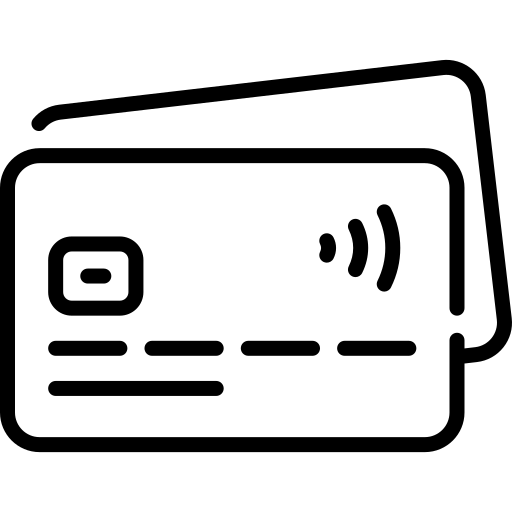
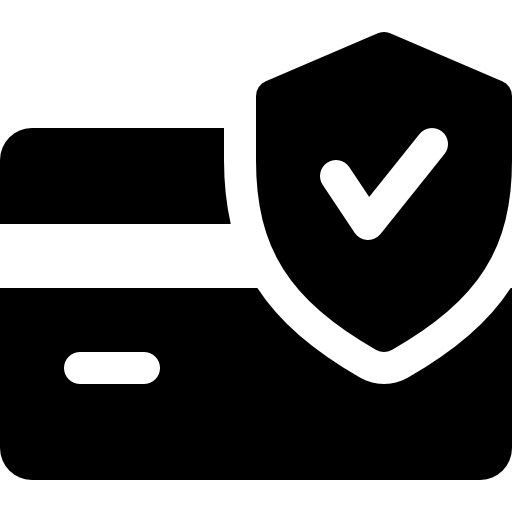
feat: update landing page section styling and add new assets for feature cards

diff --git a/src/app/page.tsx b/src/app/page.tsx
@@ -1174,10 +1174,17 @@ function SolutionsSection() {
   return (
     <section className="py-12 md:py-16 bg-background">
       <div className="container px-4 sm:px-6 md:px-8 max-w-7xl mx-auto">
-        <Reveal className="text-center mb-20">
-          <span className="inline-block px-4 py-1.5 rounded-full bg-primary/8 text-primary text-xs font-normal uppercase tracking-widest mb-4">Built for Both Sides</span>
-          <h2 className="text-3xl sm:text-4xl md:text-5xl tracking-[-0.03em] mt-2">Dual Portals. One Powerful Engine.</h2>
-          <p className="mt-5 text-lg text-muted-foreground max-w-xl mx-auto font-light">Purpose-built experiences that serve every stakeholder — flawlessly.</p>
+        <Reveal className="text-center mb-16 sm:mb-20">
+          <div className="inline-flex items-center gap-2 px-3 py-1.5 rounded-full bg-white border border-[#E0E8E3] shadow-sm mb-6">
+            <div className="h-1.5 w-1.5 rounded-full bg-[#3DBE7A] animate-pulse" />
+            <span className="text-[10px] text-[#1B5E45] font-medium uppercase tracking-[0.2em] pt-[1px]">Built for Both Sides</span>
+          </div>
+          <h2 className="text-xl min-[400px]:text-[22px] sm:text-4xl md:text-5xl tracking-tighter md:tracking-[-0.03em] font-medium text-[#1A1A1A] max-w-2xl mx-auto whitespace-nowrap sm:whitespace-normal">
+            Dual Portals. <span className="bg-gradient-to-r from-[#1B5E45] via-[#246B4F] to-[#3DBE7A] bg-clip-text text-transparent">One Powerful Engine.</span>
+          </h2>
+          <p className="mt-5 text-base sm:text-lg text-[#6B7280] max-w-xl mx-auto font-light leading-relaxed">
+            Purpose-built experiences that serve every stakeholder — flawlessly. Eliminate friction across your entire property portfolio.
+          </p>
         </Reveal>
         <div className="grid md:grid-cols-2 gap-6">
           {[
@@ -1228,8 +1235,8 @@ function SolutionsSection() {
                 <div className="grid grid-cols-2 gap-3 mb-10">
                   {card.features.map((f,j) => (
                     <div key={j} className={cn("flex items-center gap-2.5 text-sm ",card.accent?"text-foreground/80":"text-foreground/80")}>
-                      <div className="h-6 w-6 rounded-lg bg-primary/12 flex items-center justify-center shrink-0">
-                        <f.icon className="h-3.5 w-3.5 text-primary" />
+                      <div className="h-8 w-8 sm:h-6 sm:w-6 rounded-lg bg-primary/12 flex items-center justify-center shrink-0">
+                        <f.icon className="h-4 w-4 sm:h-3.5 sm:w-3.5 text-primary" />
                       </div>
                       {f.text}
                     </div>
@@ -1273,7 +1280,7 @@ function HowItWorksSection() {
       <div className="container px-4 sm:px-6 md:px-8 max-w-7xl mx-auto relative z-10">
         <Reveal className="text-center mb-14">
           <span className="inline-block px-4 py-1.5 rounded-full bg-primary/8 text-primary text-xs font-normal uppercase tracking-widest mb-4">Simple Process</span>
-          <h2 className="text-3xl sm:text-4xl md:text-5xl tracking-[-0.03em]">Up & running<br />in under 10 minutes.</h2>
+          <h2 className="text-xl min-[400px]:text-[22px] sm:text-4xl md:text-5xl tracking-tighter md:tracking-[-0.03em] whitespace-nowrap sm:whitespace-normal">Up & running in under 10 minutes.</h2>
         </Reveal>
         <Reveal className="flex justify-center mb-16">
           <div className="inline-flex items-center gap-1 p-1.5 rounded-2xl bg-foreground/6 border border-border">
